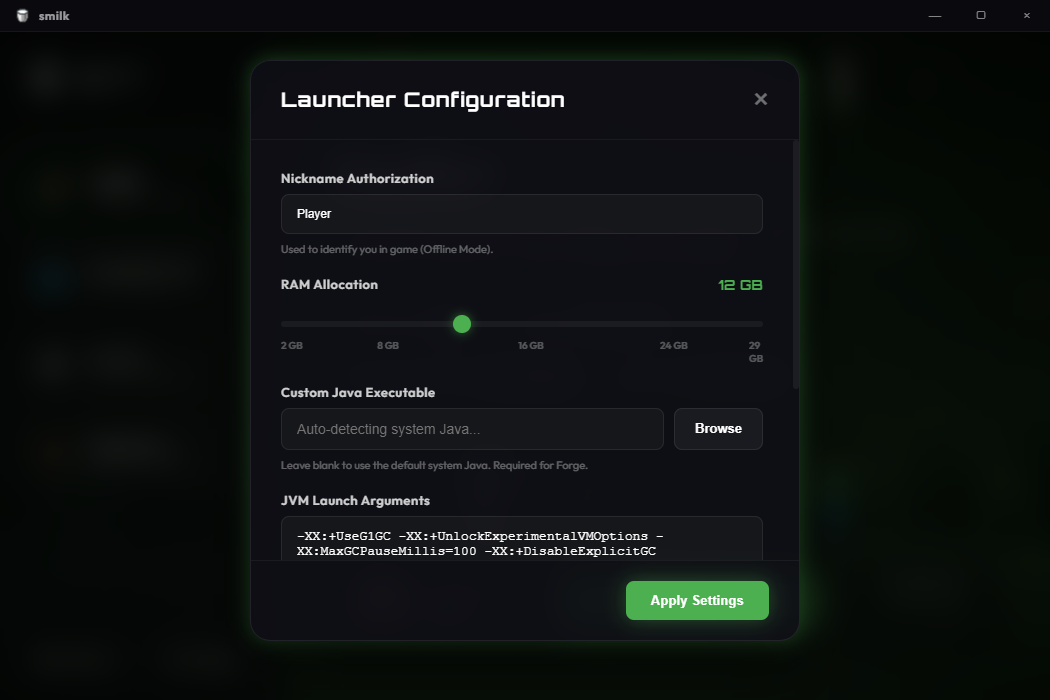
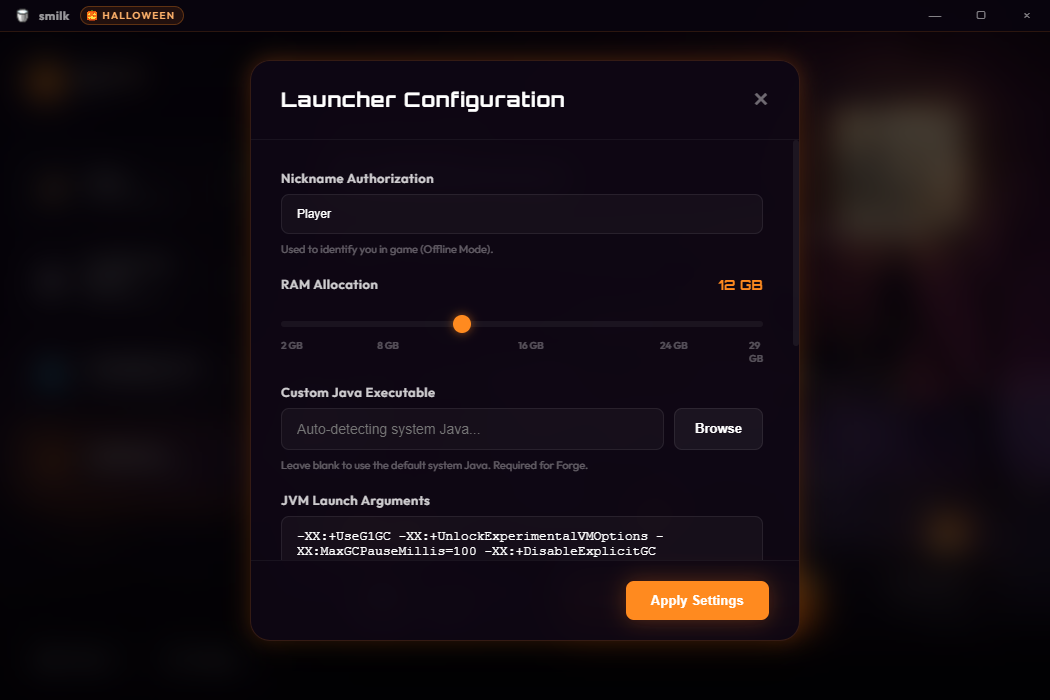
docs: update README with v1.1.8 features, refresh screenshots, and remove legacy Flatpak manifests

diff --git a/README.md b/README.md
@@ -1,27 +1,28 @@
 # smilk launcher 🥛🧊
 
+[![Version](https://img.shields.io/badge/Version-v1.1.8-FF9800?style=for-the-badge&logo=rocket&logoColor=white)](#)
 [![Electron](https://img.shields.io/badge/Electron-v31.7.7-47848F?style=for-the-badge&logo=electron&logoColor=white)](https://electronjs.org/)
 [![NodeJS](https://img.shields.io/badge/Node.js-v20.18-339933?style=for-the-badge&logo=node.js&logoColor=white)](https://nodejs.org/)
 [![Minecraft](https://img.shields.io/badge/Minecraft-1.20.1%20%7C%201.21.1-12821C?style=for-the-badge&logo=minecraft&logoColor=white)](https://minecraft.net/)
-[![Platform](https://img.shields.io/badge/Platform-Windows-0078D6?style=for-the-badge&logo=windows&logoColor=white)](#)
+[![Platform](https://img.shields.io/badge/Platform-Windows%20%7C%20Linux-0078D6?style=for-the-badge&logo=linux&logoColor=white)](#)
 
-A custom, premium Minecraft launcher built with **Electron**, **Node.js**, and **minecraft-launcher-core**. Designed with a sleek, modern UI, glassmorphic layout, dynamic pixel-art animations, and built-in support for downloading and installing `.mrpack` modpacks (Modrinth).
+A custom, premium Minecraft launcher built with **Electron**, **Node.js**, and **minecraft-launcher-core**. Designed with a sleek modern UI, glassmorphic layout, dynamic pixel-art & 2.5D seasonal animations, automated modpack management via `.mrpack` (Modrinth / Git LFS), and cross-platform support for Windows and Linux.
 
 ---
 
 ## 🎨 Themes & Visuals
 
-The launcher features multiple custom pixel-art interactive themes that dynamically match the selected modpack. 
+The launcher features custom interactive visual scenes that dynamically adapt to the selected modpack and seasonal events.
 
-| 🌊 Create: Stranded at Sea | ⚙ Create + |
+| 🎃 Pluto (Halloween Spooky Edition) | ⚙ Create: New World |
 | :---: | :---: |
-| ![Stranded at Sea](screenshots/stranded_at_sea.png) | ![Democky Edition](screenshots/democky_edition.png) |
+| ![Pluto](screenshots/pluto.png) | ![Create New World](screenshots/create_new_world.png) |
 
-| 🦁 Cobblemon | 🌲 Vanilla+ |
+| 🌊 Create: Stranded at Sea | 🦁 Cobblemon |
 | :---: | :---: |
-| ![Cobblemon](screenshots/cobblemon.png) | ![Vanilla+](screenshots/vanilla_plus.png) |
+| ![Stranded at Sea](screenshots/stranded_at_sea.png) | ![Cobblemon](screenshots/cobblemon.png) |
 
-| 🔧 Settings Panel |
+| 🔧 Launcher Configuration & Settings |
 | :---: |
 | ![Settings](screenshots/settings.png) |
 
@@ -29,36 +30,46 @@ The launcher features multiple custom pixel-art interactive themes that dynamica
 
 ## ✨ Features
 
-- **Premium UI/UX Design**: Sleek dark mode, glassmorphism (`backdrop-filter`), vibrant glow effects, and modern fonts (Orbitron, Outfit, Montserrat).
-- **Dynamic Interactive Scenes**: 
-  - **Stranded at Sea**: Floating raft with moving water wheel and bubbles.
-  - **Create +**: Spinning gears, airships, rolling trains, and steam particles.
-  - **Cobblemon**: Pixelated landscape with animated Pokémon (Pikachu, Squirtle, etc.), sparks, and rolling Pokeballs.
-  - **Vanilla+**: Dark forest dungeon archway with fireflies, falling leaves, and animated Creeper, Zombie, and Skeleton mobs (with a bow aiming posture).
-- **Automatic Minecraft Skin Avatars**: Fetches and renders the player's 2D Minecraft face skin in real-time from `mc-heads.net` API based on nickname (falls back to Steve/Alex for offline accounts).
-- **Network & RAM Optimization**: 
-  - Debounced nick input (500ms delay) to save API calls.
-  - Automatic Chromium cache cleaning on startup to prevent RAM/Disk bloat.
-  - Smart animation freezing (pauses rendering completely when the game starts to preserve 100% of your PC's power for Minecraft).
-- **Full Modrinth Modpack Support**: Automatically downloads, extracts, and installs `.mrpack` modpacks from remote configurations.
-- **Diagnostics**: Built-in debug console window showing real-time log streaming for game output, with Adoptium Java auto-installer fallback for missing dependencies.
+- **🎃 Seasonal Halloween Engine**: 
+  - Dynamic 2.5D atmospheric canvas scene featuring moonlit haunted manors, fluttering bats with sinusoidal kinematics, translucent glowing ghosts, creeping ground fog mist, and will-o'-the-wisp embers.
+  - Spooky UI styling: Carved Jack-o'-Lantern bucket logo with candle-flicker animation, fiery magma PLAY button with ember pulse micro-animation, and corner spiderwebs.
+  - Automatic seasonal detection (Oct 15 – Nov 5) with manual override toggle in settings.
+- **🪐 Pluto & Modern Modpack Support**: 
+  - Full support for Minecraft 1.21.1 (NeoForge 21.1.257 / Fabric 0.15.11) with native Iris and Oculus shaders support.
+  - Pre-configured community multiplayer server list (`servers.dat`) and synchronized game settings (`options.txt`).
+- **🛡 Modpack Integrity & Missing Mods Guard**:
+  - Real-time pre-flight verification checks the integrity of `mods/` and manifests before launch.
+  - Automatically detects deleted or missing mods and prompts to restore them with a single click (`RESTORE & PLAY`), preventing crashes from accidentally missing files.
+- **⚡ Zero-Rate-Limit Dynamic Branch Resolution**:
+  - Dynamically discovers `.mrpack` files on any GitHub branch without hardcoded filenames.
+  - Bypasses GitHub API rate-limiting (60 req/hr) by leveraging CDN tree scanning and Atom feeds.
+  - Direct binary downloads for large modpacks tracked with Git LFS (`media.githubusercontent.com`).
+- **🎮 Cross-Platform Dedicated GPU**:
+  - Enforces high-performance discrete GPU (NVIDIA / AMD) on Windows (via DirectX `UserGpuPreferences`) and Linux (via PRIME Render Offload & Vulkan device selection).
+- **🛠 Profile Verification & Repair**:
+  - In-app "Verify & Repair" checks vanilla `client.jar`, asset indexes, sound libraries, and modpack files against official SHA-1 checksums without overwriting personal configs.
+- **🐧 Linux First-Class Packaging**:
+  - Native standalone `AppImage` for universal Linux support.
+  - Native `RPM` packages for Fedora, RHEL, and openSUSE.
+- **👤 Automatic Minecraft Avatars**: Real-time 2D face rendering fetched dynamically based on nickname, with automatic Steve/Alex offline fallback.
+- **🎧 Discord Rich Presence**: Displays active modpack, player nickname, elapsed game time, and seasonal status.
 
 ---
 
 ## 🛠 Tech Stack
 
-- **Frontend**: HTML5, Vanilla CSS3 (custom variables, transitions), Javascript.
-- **Backend**: Electron (Main process), Node.js.
-- **Core Library**: `minecraft-launcher-core` (MCLC) for launching game processes.
-- **Modpack Handling**: `adm-zip` for `.mrpack` parsing and extraction.
+- **Frontend**: HTML5, Vanilla CSS3 (glassmorphic design system, CSS variables), JavaScript (ESNext).
+- **Backend**: Electron (Main process with IPC isolation), Node.js.
+- **Core Engine**: `minecraft-launcher-core` (MCLC).
+- **Modpack Handling**: `adm-zip` for manifest parsing and mod archive extraction.
 
 ---
 
 ## 🚀 Running Locally
 
 ### Prerequisites
-- [Node.js](https://nodejs.org/) (v18 or newer recommended)
-- Java (Adoptium JDK 17/21 recommended for modern Minecraft versions)
+- [Node.js](https://nodejs.org/) (v20 or newer recommended)
+- Java Runtime (Adoptium Eclipse Temurin JDK 17/21/22 for modern Minecraft versions; the launcher also features automatic Java installation)
 
 ### Setup
 1. Clone the repository:
@@ -72,7 +83,7 @@ The launcher features multiple custom pixel-art interactive themes that dynamica
    npm install
    ```
 
-3. Run the launcher in development mode:
+3. Run in development mode:
    ```bash
    npm start
    ```
@@ -86,24 +97,19 @@ The launcher features multiple custom pixel-art interactive themes that dynamica
 npm run build:win
 ```
 
-### Linux (AppImage, RPM, Flatpak, tar.gz):
+### Linux (AppImage, RPM, tar.gz):
 ```bash
-# Build all Linux targets (AppImage, RPM, Flatpak, tar.gz):
+# Build all Linux targets:
 npm run build:linux
 
 # Build specific package format:
-npm run build:rpm       # Native package for Fedora / RHEL / CentOS
+npm run build:rpm       # Native package for Fedora / RHEL
 npm run build:appimage  # Universal standalone executable
-npm run build:flatpak   # Flatpak bundle
 ```
 
-### Flatpak Builder (Manual / Flathub):
-```bash
-flatpak-builder --user --install --force-clean build-dir com.smilk.launcher.yml
-```
-
-The compiled installers will be available inside the `dist/` directory.
+Compiled production artifacts are generated in the `dist/` directory.
 
 ---
 
 *Created with ❤ by [Saiko](https://github.com/Saiko6540)*
+
